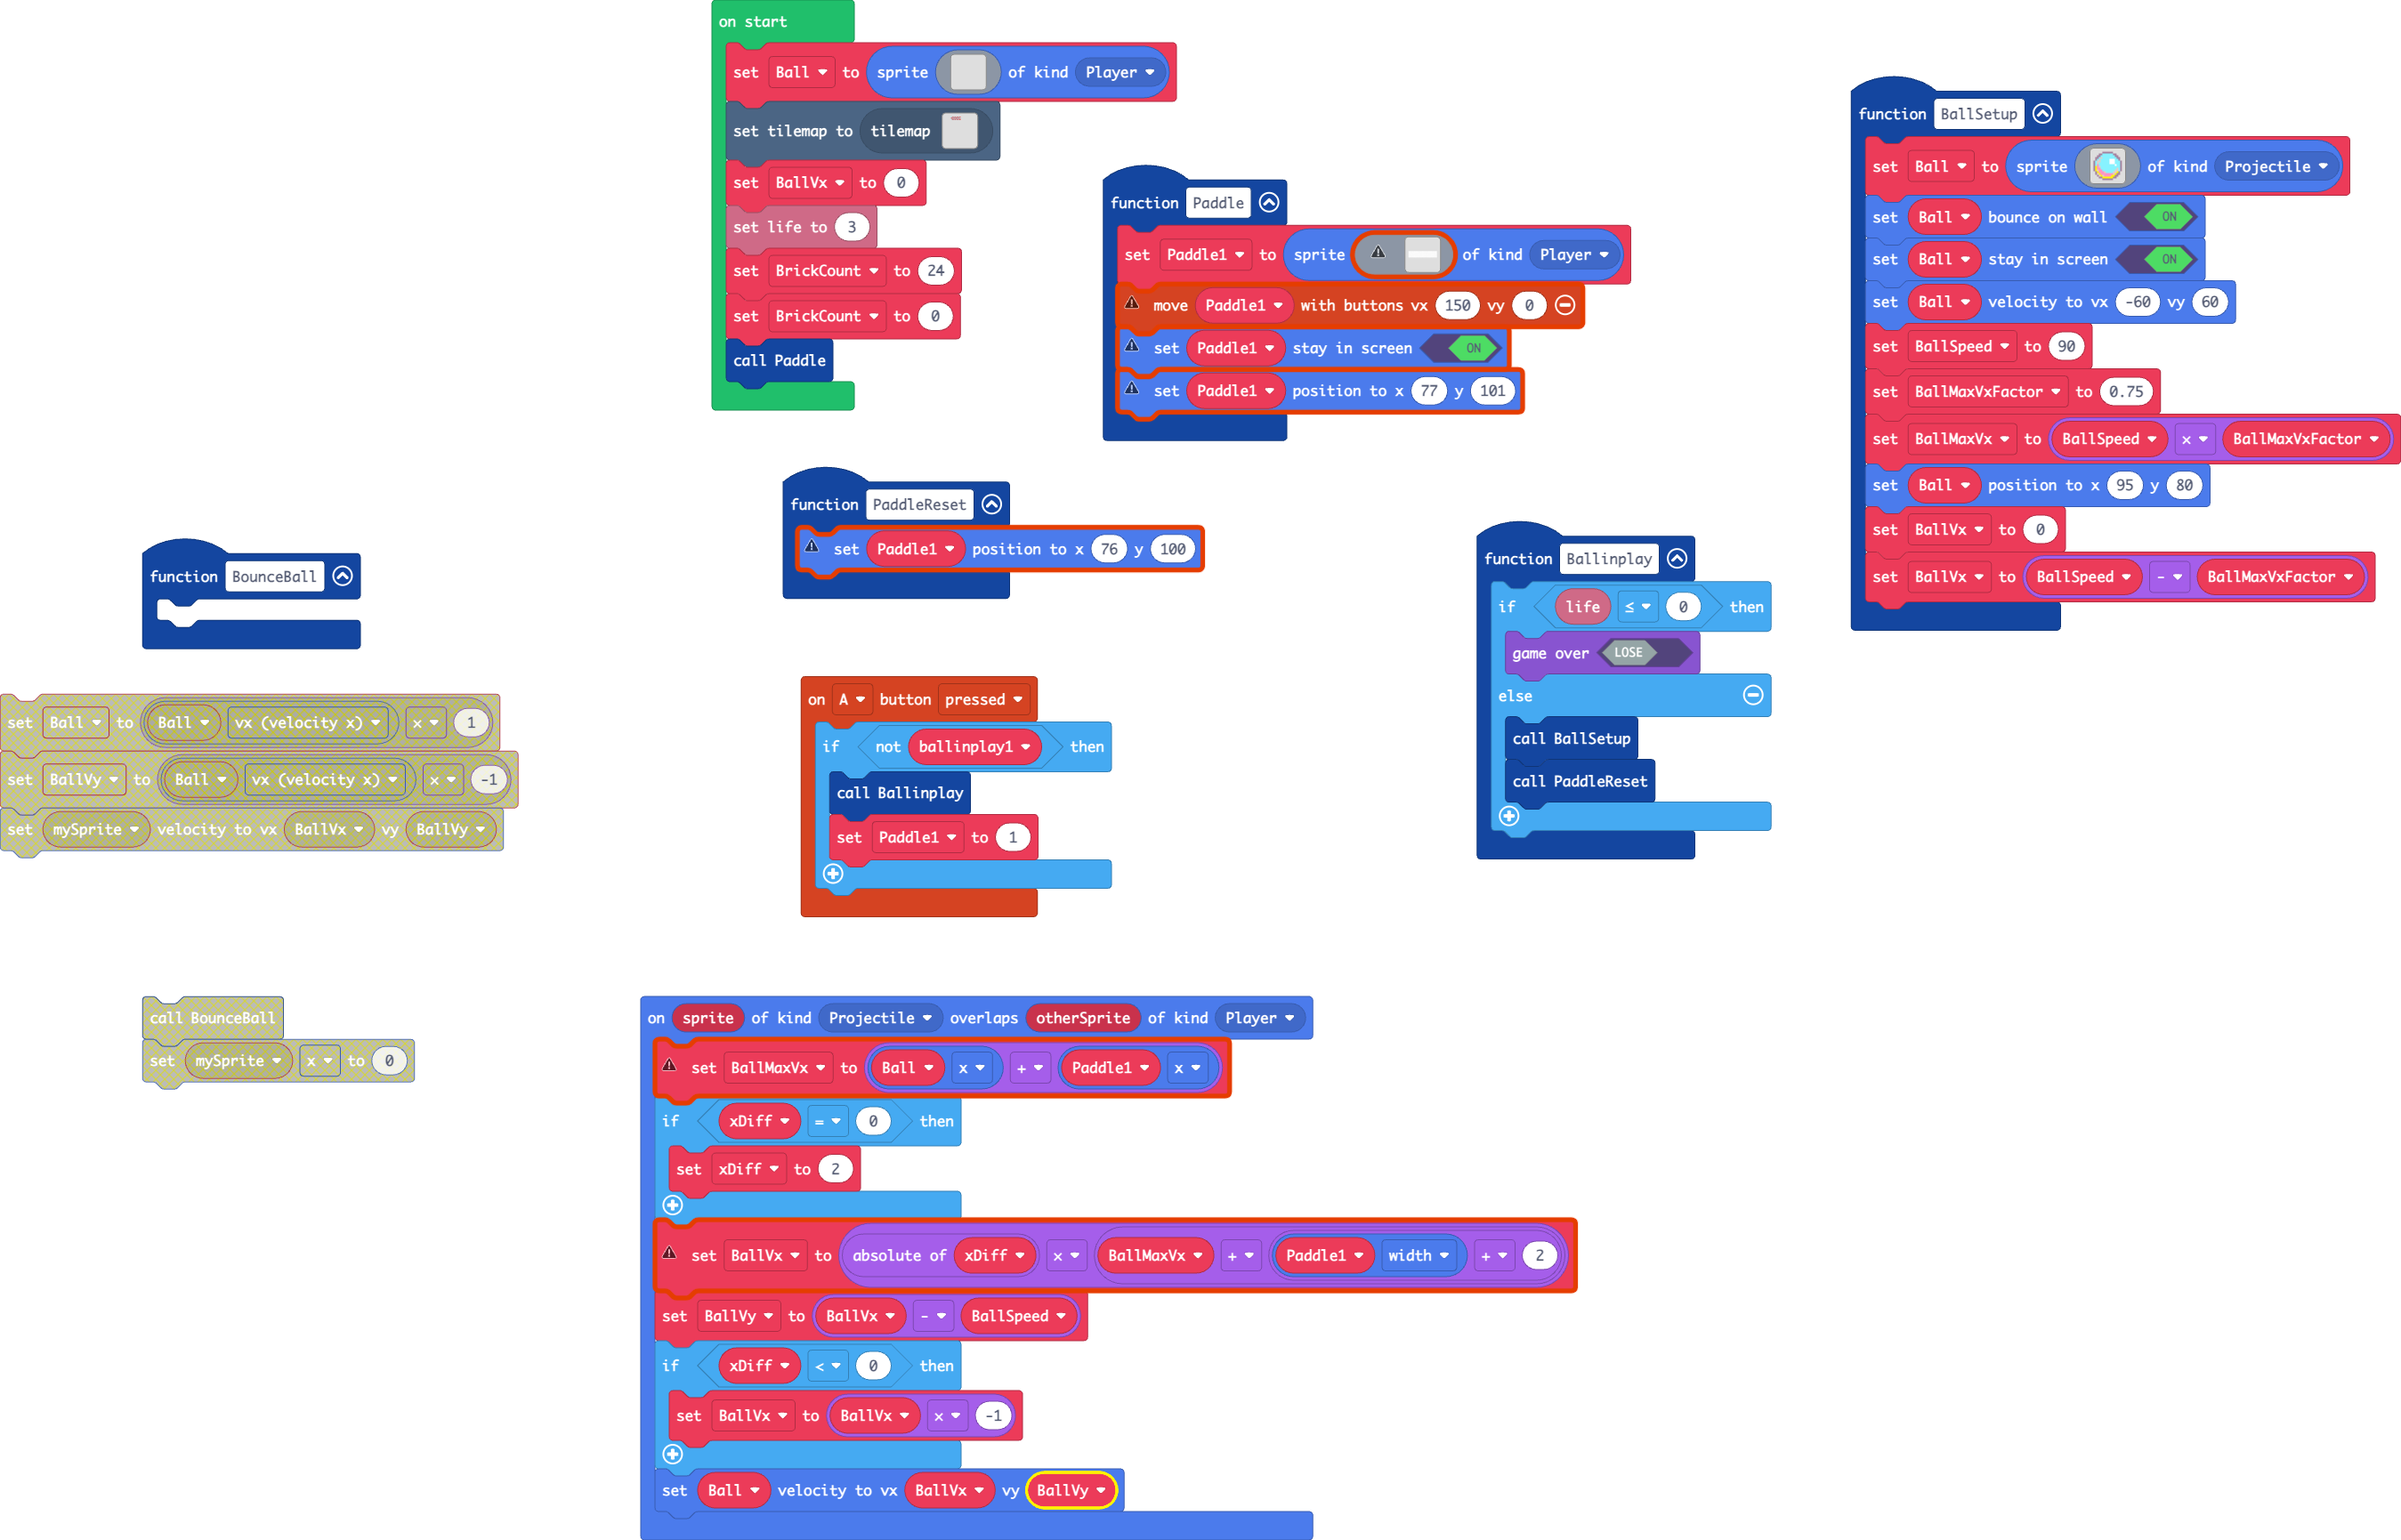
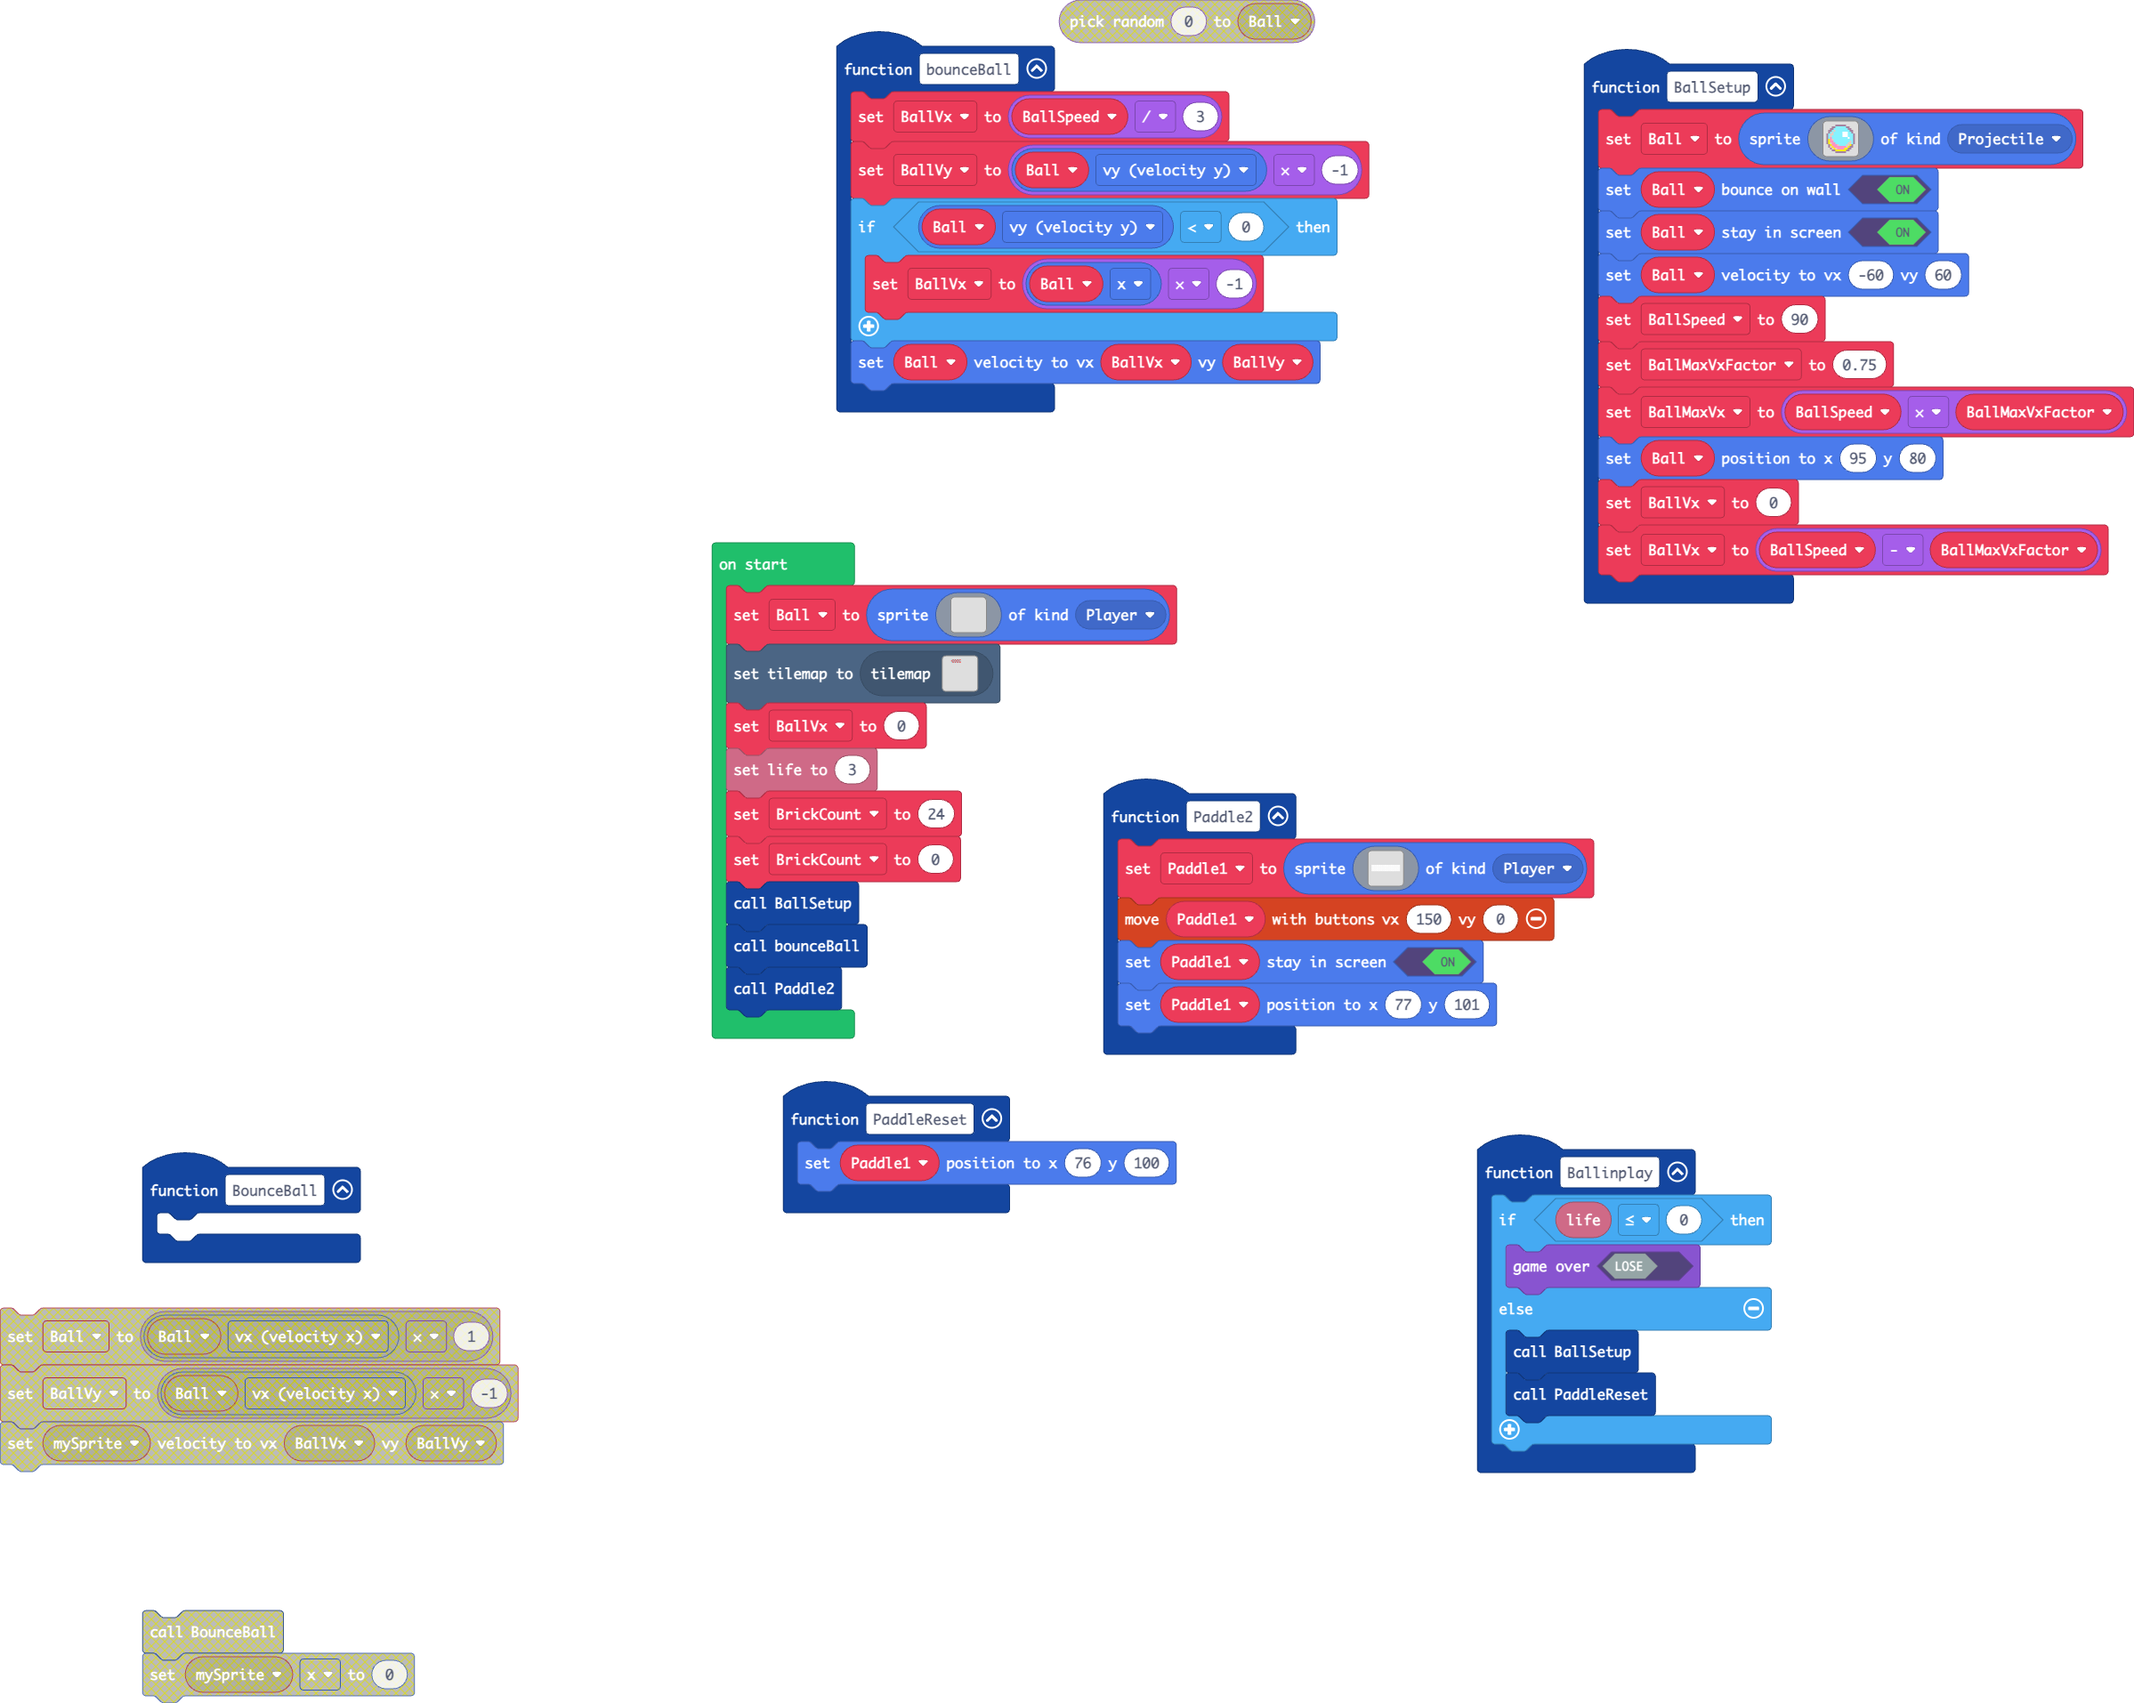
Update pxt.json, main.blocks, main.ts, tilemap.g.jres, tilemap.g.ts

diff --git a/tilemap.g.ts b/tilemap.g.ts
@@ -80,34 +80,6 @@ namespace myTiles {
 . . . . . . . . . . . . . . . . 
 . . . . . . . . . . . . . . . . 
 `, [myTiles.transparency16], TileScale.Sixteen);
-            case "level4":
-            case "level4":return tiles.createTilemap(hex`1000190000020102010201020100000000000000000102010201020102000000000000000002010201020102010000000000000000000000000000000000000000000000000000000000000000000000000000000000000000000000000000000000000000000000000000000000000000000000000000000000000000000000000000000000000000000000000000000000000000000000000000000000000000000000000000000000000000000000000000000000000000000000000000000000000000000000000000000000000000000000000000000000000000000000000000000000000000000000000000000000000000000000000000000000000000000000000000000000000000000000000000000000000000000000000000000000000000000000000000000000000000000000000000000000000000000000000000000000000000000000000000000000000000000000000000000000000000000000000000000000000000000000000000000000000000000000000000000000000000000000000000000000000000000000`, img`
-................
-................
-................
-................
-................
-................
-................
-................
-................
-................
-................
-................
-................
-................
-................
-................
-................
-................
-................
-................
-................
-................
-................
-................
-................
-`, [myTiles.transparency16,myTiles.tile4,myTiles.tile3], TileScale.Sixteen);
             case "level5":
             case "level5":return tiles.createTilemap(hex`1000100000000000000000000000000000000000000000000000000000000000000000000000000000000000000000000000000000000000000000000000000000000000000000000000000000000000000000000000000000000000000000000000000000000000000000000000000000000000000000000000000000000000000000000000000000000000000000000000000000000000000000000000000000000000000000000000000000000000000000000000000000000000000000000000000000000000000000000000000000000000000000000000000000000000000000000000000000000000000000000000000000000000000000000000000000000000`, img`
 . . . . . . . . . . . . . . . . 
@@ -222,6 +194,34 @@ namespace myTiles {
 . . . . . . . . . . . . . . . . 
 . . . . . . . . . . . . . . . . 
 `, [myTiles.transparency16], TileScale.Sixteen);
+            case "level4":
+            case "level4":return tiles.createTilemap(hex`1000190000020102010201020100000000000000000102010201020102000000000000000002010201020102010000000000000000000000000000000000000000000000000000000000000000000000000000000000000000000000000000000000000000000000000000000000000000000000000000000000000000000000000000000000000000000000000000000000000000000000000000000000000000000000000000000000000000000000000000000000000000000000000000000000000000000000000000000000000000000000000000000000000000000000000000000000000000000000000000000000000000000000000000000000000000000000000000000000000000000000000000000000000000000000000000000000000000000000000000000000000000000000000000000000000000000000000000000000000000000000000000000000000000000000000000000000000000000000000000000000000000000000000000000000000000000000000000000000000000000000000000000000000000000000`, img`
+................
+................
+................
+................
+................
+................
+................
+................
+................
+................
+................
+................
+................
+................
+................
+................
+................
+................
+................
+................
+................
+................
+................
+................
+................
+`, [myTiles.transparency16,myTiles.tile4,myTiles.tile3], TileScale.Sixteen);
         }
         return null;
     })

diff --git a/main.ts b/main.ts
@@ -1,5 +1,6 @@
 namespace SpriteKind {
     export const Ball = SpriteKind.create()
+    export const Paddle = SpriteKind.create()
 }
 function BallSetup () {
     Ball = sprites.create(img`
@@ -30,32 +31,29 @@ function BallSetup () {
     BallVx = 0
     BallVx = BallSpeed - BallMaxVxFactor
 }
-controller.A.onEvent(ControllerButtonEvent.Pressed, function () {
-    let ballinplay1 = 0
-    if (!(ballinplay1)) {
-        Ballinplay()
-        Paddle1 = 1
-    }
-})
-sprites.onOverlap(SpriteKind.Projectile, SpriteKind.Player, function (sprite, otherSprite) {
-    BallMaxVx = Ball.x + Paddle1.x
-    if (xDiff == 0) {
-        xDiff = 2
-    }
-    BallVx = Math.abs(xDiff) * (BallMaxVx + (Paddle1.width + 2))
-    BallVy = BallVx - BallSpeed
-    if (xDiff < 0) {
-        BallVx = BallVx * -1
+function bounceBall () {
+    BallVx = BallSpeed / 3
+    BallVy = Ball.vy * -1
+    if (Ball.vy < 0) {
+        BallVx = Ball.x * -1
     }
     Ball.setVelocity(BallVx, BallVy)
-})
+}
 function PaddleReset () {
     Paddle1.setPosition(76, 100)
 }
 function BounceBall () {
 	
 }
-function Paddle () {
+function Ballinplay () {
+    if (info.life() <= 0) {
+        game.gameOver(false)
+    } else {
+        BallSetup()
+        PaddleReset()
+    }
+}
+function Paddle2 () {
     Paddle1 = sprites.create(img`
         1 1 1 1 1 1 1 1 1 1 1 1 1 1 1 1 1 1 
         1 1 1 1 1 1 1 1 1 1 1 1 1 1 1 1 1 1 
@@ -66,17 +64,8 @@ function Paddle () {
     Paddle1.setStayInScreen(true)
     Paddle1.setPosition(77, 101)
 }
-function Ballinplay () {
-    if (info.life() <= 0) {
-        game.gameOver(false)
-    } else {
-        BallSetup()
-        PaddleReset()
-    }
-}
+let Paddle1: Sprite = null
 let BallVy = 0
-let xDiff = 0
-let Paddle1 = 0
 let BallMaxVx = 0
 let BallMaxVxFactor = 0
 let BallSpeed = 0
@@ -105,4 +94,13 @@ BallVx = 0
 info.setLife(3)
 let BrickCount = 24
 BrickCount = 0
-Paddle()
+BallSetup()
+bounceBall()
+Paddle2()
+
+}
+
+sprites.onOverlap(SpriteKind.Player, SpriteKind.Ball, function (sprite, otherSprite) {
+    bounceBall(otherSprite)
+    otherSprite.y = sprite.top + 1
+})
